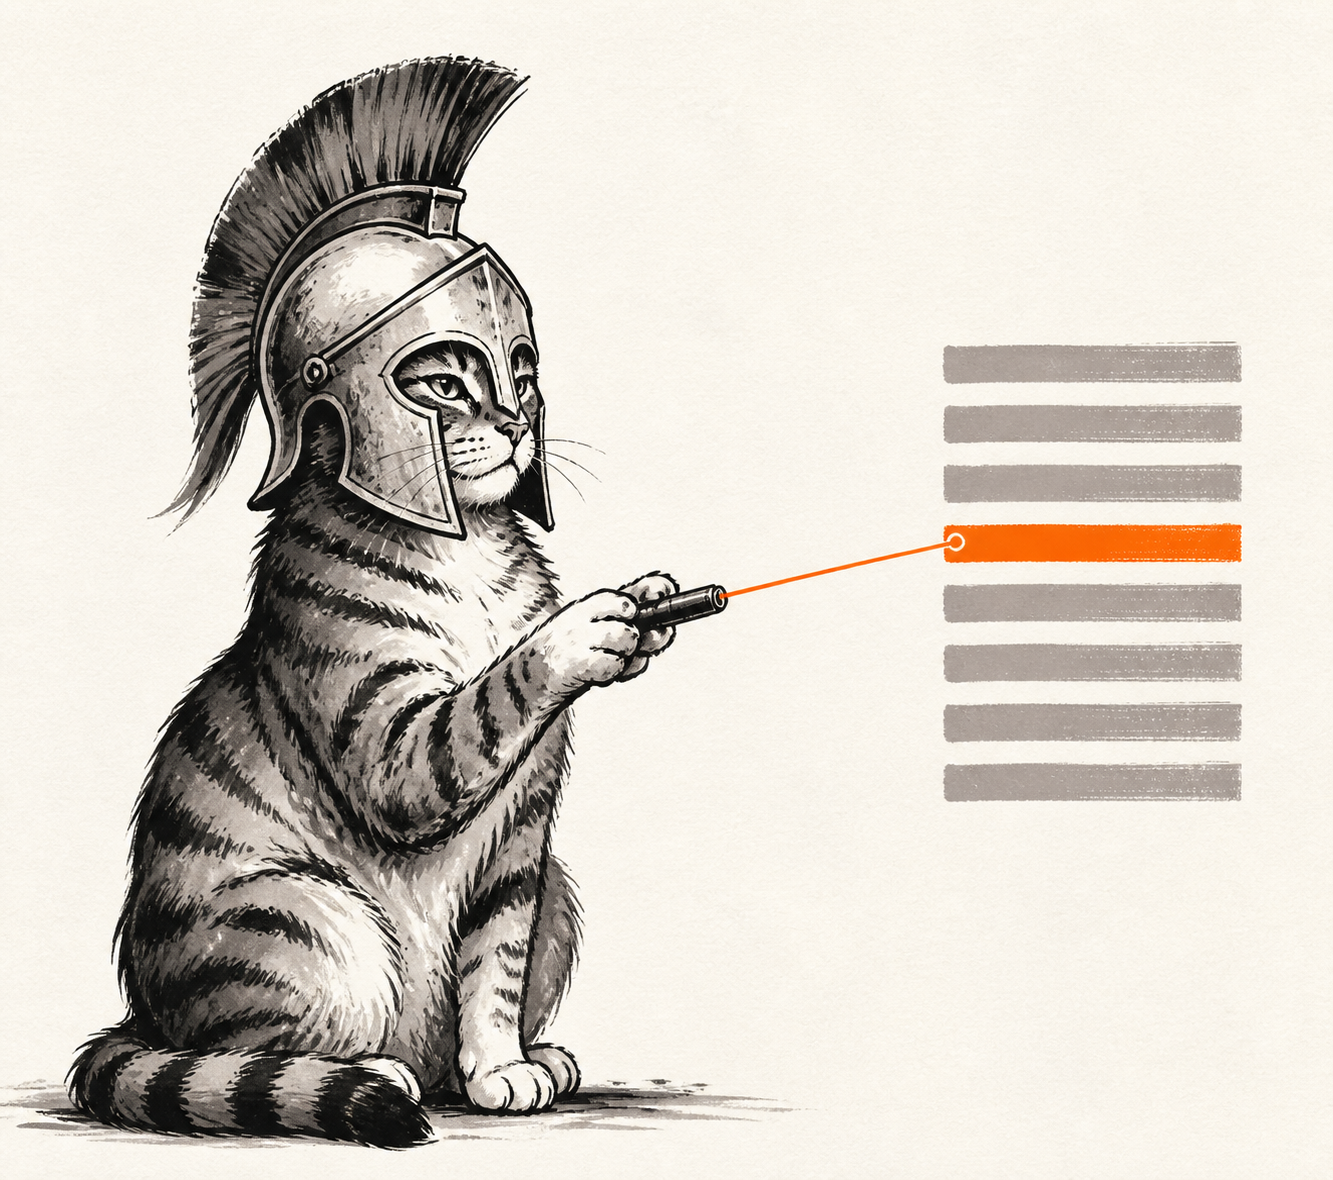
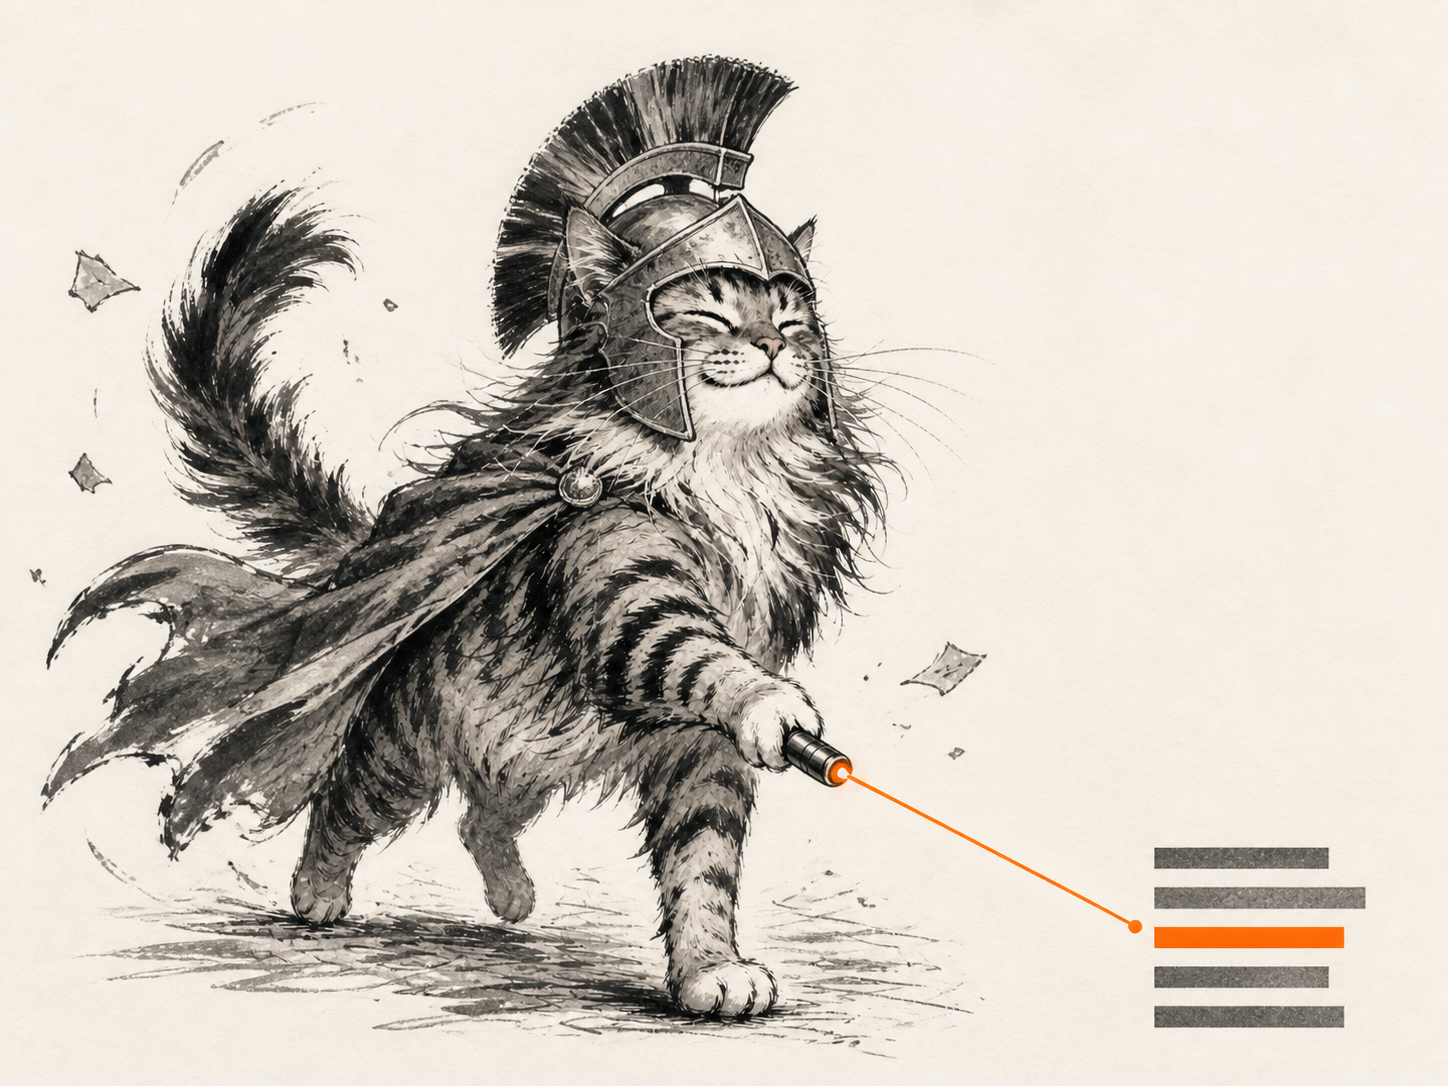
Before/after tables in Spartan + Rundown sections (real eval outputs); Spartan-3 cat

diff --git a/README.md b/README.md
@@ -76,33 +76,80 @@ It holds beyond code: research (-53%), analysis (-55%), and explaining (-50%) cu
 
 ## Spartan
 
-<img src="assets/cat-spartan.png" alt="A cat in a Spartan helmet aims its laser at one lit line" width="360" align="right">
+<p><img src="assets/cat-spartan.png" alt="A cat in a Spartan helmet aims its laser at one lit line" width="300"></p>
 
 Terse mode with the warmth stripped out. Same arrows and bold as Attention-kind, but blunt and imperative, no cushioning, no transitions, maximum compression. For heads-down work when you want signal, not conversation.
 
-Opus 5 eval (4 questions): **~50% fewer tokens** than default, skimmability to **5.0**, correctness held. [Full results.](benchmarks/results/2026-08-05-pointblank-and-rundown-opus5.md)
+Same question as above, **"PostgreSQL or MongoDB for a new social app?"** Both real Opus 5 eval outputs.
 
-> **→ Use PostgreSQL.** Social data is relational. Handles friends, follows, likes natively.
->
-> **→ JSONB** covers the loose fields. No second database.
->
-> **→ Mongo only if** documents are self-contained and writes are huge on day one.
+<table>
+<tr>
+<th align="left" width="50%">Default &nbsp;·&nbsp; 449 words</th>
+<th align="left" width="50%">Spartan &nbsp;·&nbsp; 199 words</th>
+</tr>
+<tr valign="top">
+<td>
+
+For a new social app, default to PostgreSQL. Social apps are relationship engines. Users follow users, posts have authors, comments nest under posts, likes join users to content, feeds fan out across a graph. That is a highly relational workload, exactly what a relational database is built for. Joins, foreign keys, and transactional integrity are core features in Postgres, not bolt-ons. Consistency that matters socially: follow counts, like counts, and "did this send" all benefit from ACID transactions. In Mongo you often end up hand-rolling consistency across documents. It is also a good document store: Postgres has native JSONB with indexing, so the flexible-schema pitch for Mongo is largely neutralized…
+
+</td>
+<td>
+
+**→ PostgreSQL. Default to it for a social app.**
+
+**→ Social data is relational.** Users, follows, likes, feeds. All joins between entities. Postgres does joins natively; Mongo makes you fake them in app code.
+
+**→ Postgres does JSON too.** JSONB gives you Mongo's flexible-schema trick when you need it, without giving up structure.
+
+**→ Consistency matters.** Follower counts, likes, payments. Postgres has real transactions across tables. Mongo's are bolted on and slower.
+
+**→ Mongo only if** your data is genuinely document-shaped and schema-chaotic.
+
+</td>
+</tr>
+</table>
+
+Opus 5 eval (4 questions): **~50% fewer tokens** than default, skimmability to **5.0**, correctness held. [Full results.](benchmarks/results/2026-08-05-pointblank-and-rundown-opus5.md)
 
 ## Rundown
 
-<img src="assets/cat-rundown.png" alt="A cat aims its laser at a checklist, one line lit" width="360" align="right">
+<p><img src="assets/cat-rundown.png" alt="The Rundown cat aims its laser at a checklist, one line lit" width="300"></p>
 
 Briefing style. Opens with a **TL;DR**, shows state as a ✅ / 🟡 / ⬜ checklist, tags the next choices with emoji. Built for status updates and standups. It trades tokens for scannability, so use it for clarity, not to shrink output. Includes a guard against inventing status it wasn't given.
 
-> **TL;DR:** launch is close, one blocker left.
->
-> ✅ **Site build** shipped
-> 🟡 **Copy** in review
-> ⬜ **Payments** not wired
->
-> **Your move:**
-> 🚀 wire payments first
-> 👀 review copy in parallel
+The question: **"Summarize where hiring stands: 20 applicants, 5 screened, 2 interviews, no offer, one strong candidate slipping."** Both real Opus 5 eval outputs.
+
+<table>
+<tr>
+<th align="left" width="50%">Default &nbsp;·&nbsp; 154 words</th>
+<th align="left" width="50%">Rundown &nbsp;·&nbsp; 127 words</th>
+</tr>
+<tr valign="top">
+<td>
+
+Hiring stands at the top of the funnel and thin at the bottom. Twenty applicants in, five screened, two interviews booked. No offer has gone out yet, and that gap is the problem: one of the strongest candidates is cooling off while the process idles. The numbers: applicants 20, screened 5, interviews booked 2, offers out 0, at risk 1 strong candidate slipping away. The read: this is a speed problem, not a supply problem. The pipeline is healthy up top, but nothing has converted to an offer, and the best prospect is drifting. The highest-value move is to fast-track the slipping candidate before the delay decides for us. Bottleneck: the offer stage…
+
+</td>
+<td>
+
+**TL;DR:** healthy up top, the finish line is stalling, and your best candidate is about to walk.
+
+**Hiring funnel**
+- ☑ **Applicants:** 20 sourced
+- ☑ **Screened:** 5 of 20
+- 🟡 **Interviews:** 2 booked, not run
+- ⬜ **Offer:** not drafted
+
+🔴 **Blocker:** one strong candidate slipping. No offer motion means you lose them by default.
+
+**Your move:**
+- 🚀 Fast-track them to an offer today
+- 📞 Run the 2 booked interviews
+- ✍ Draft the offer now
+
+</td>
+</tr>
+</table>
 
 ## Install
 
